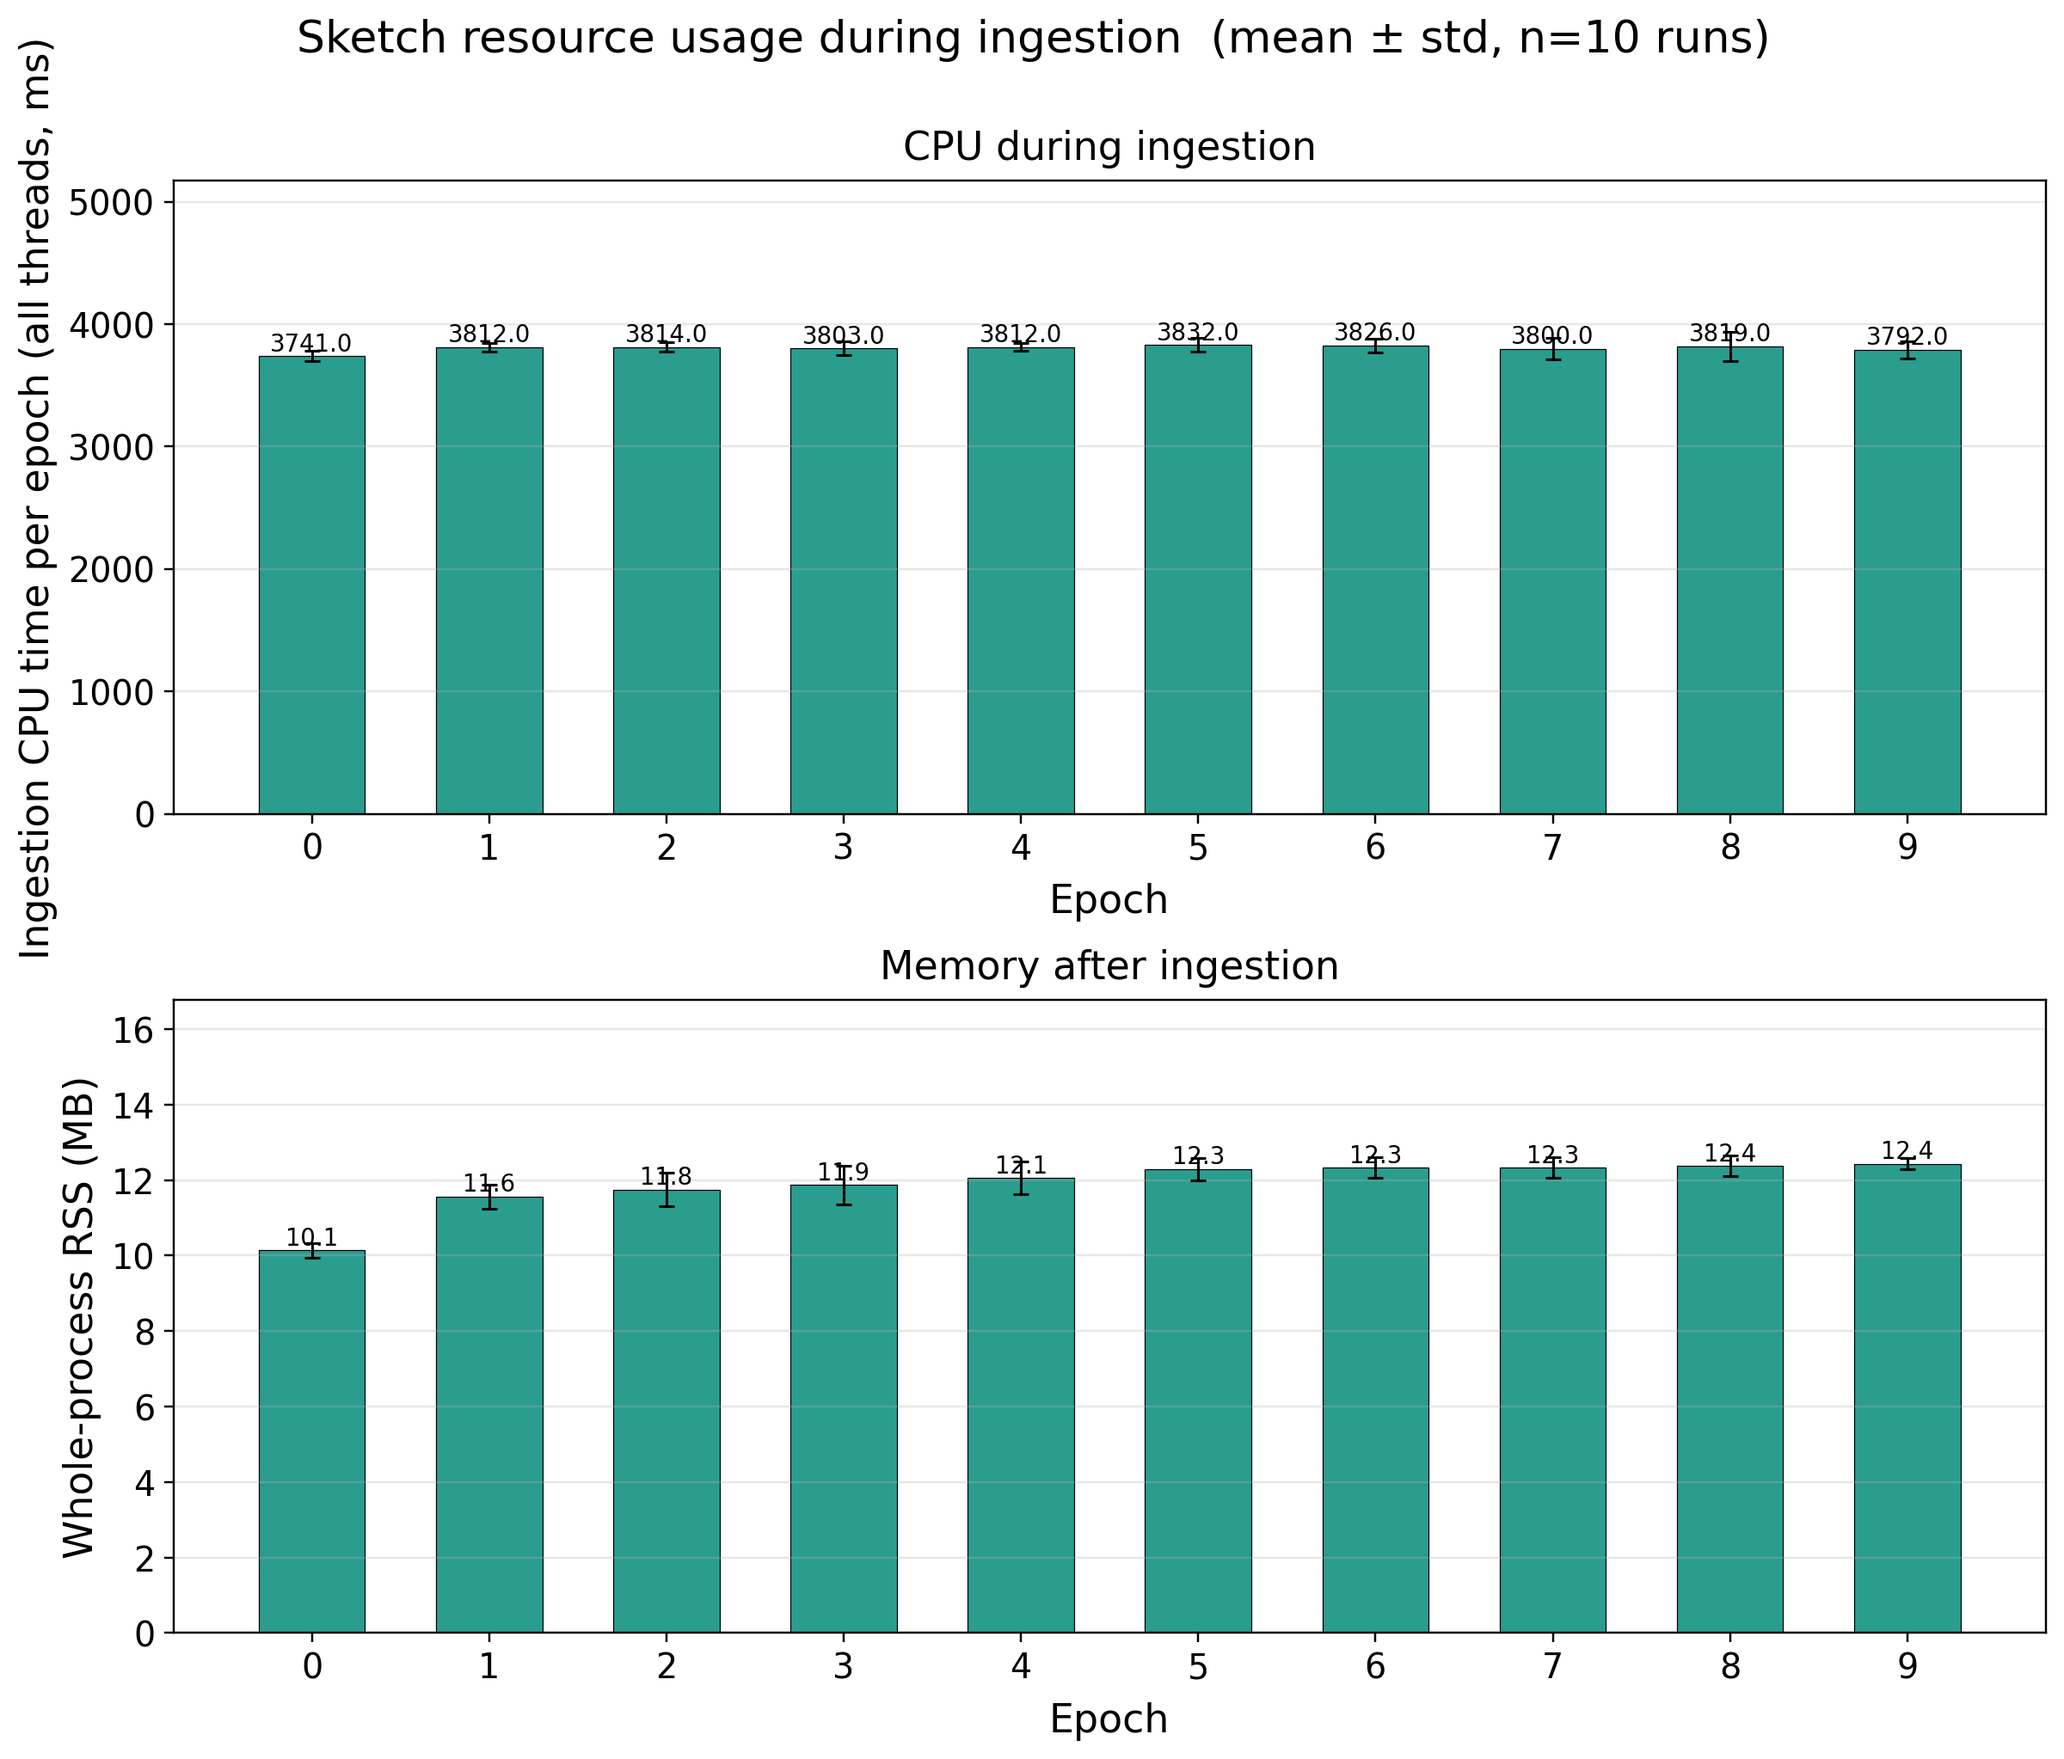
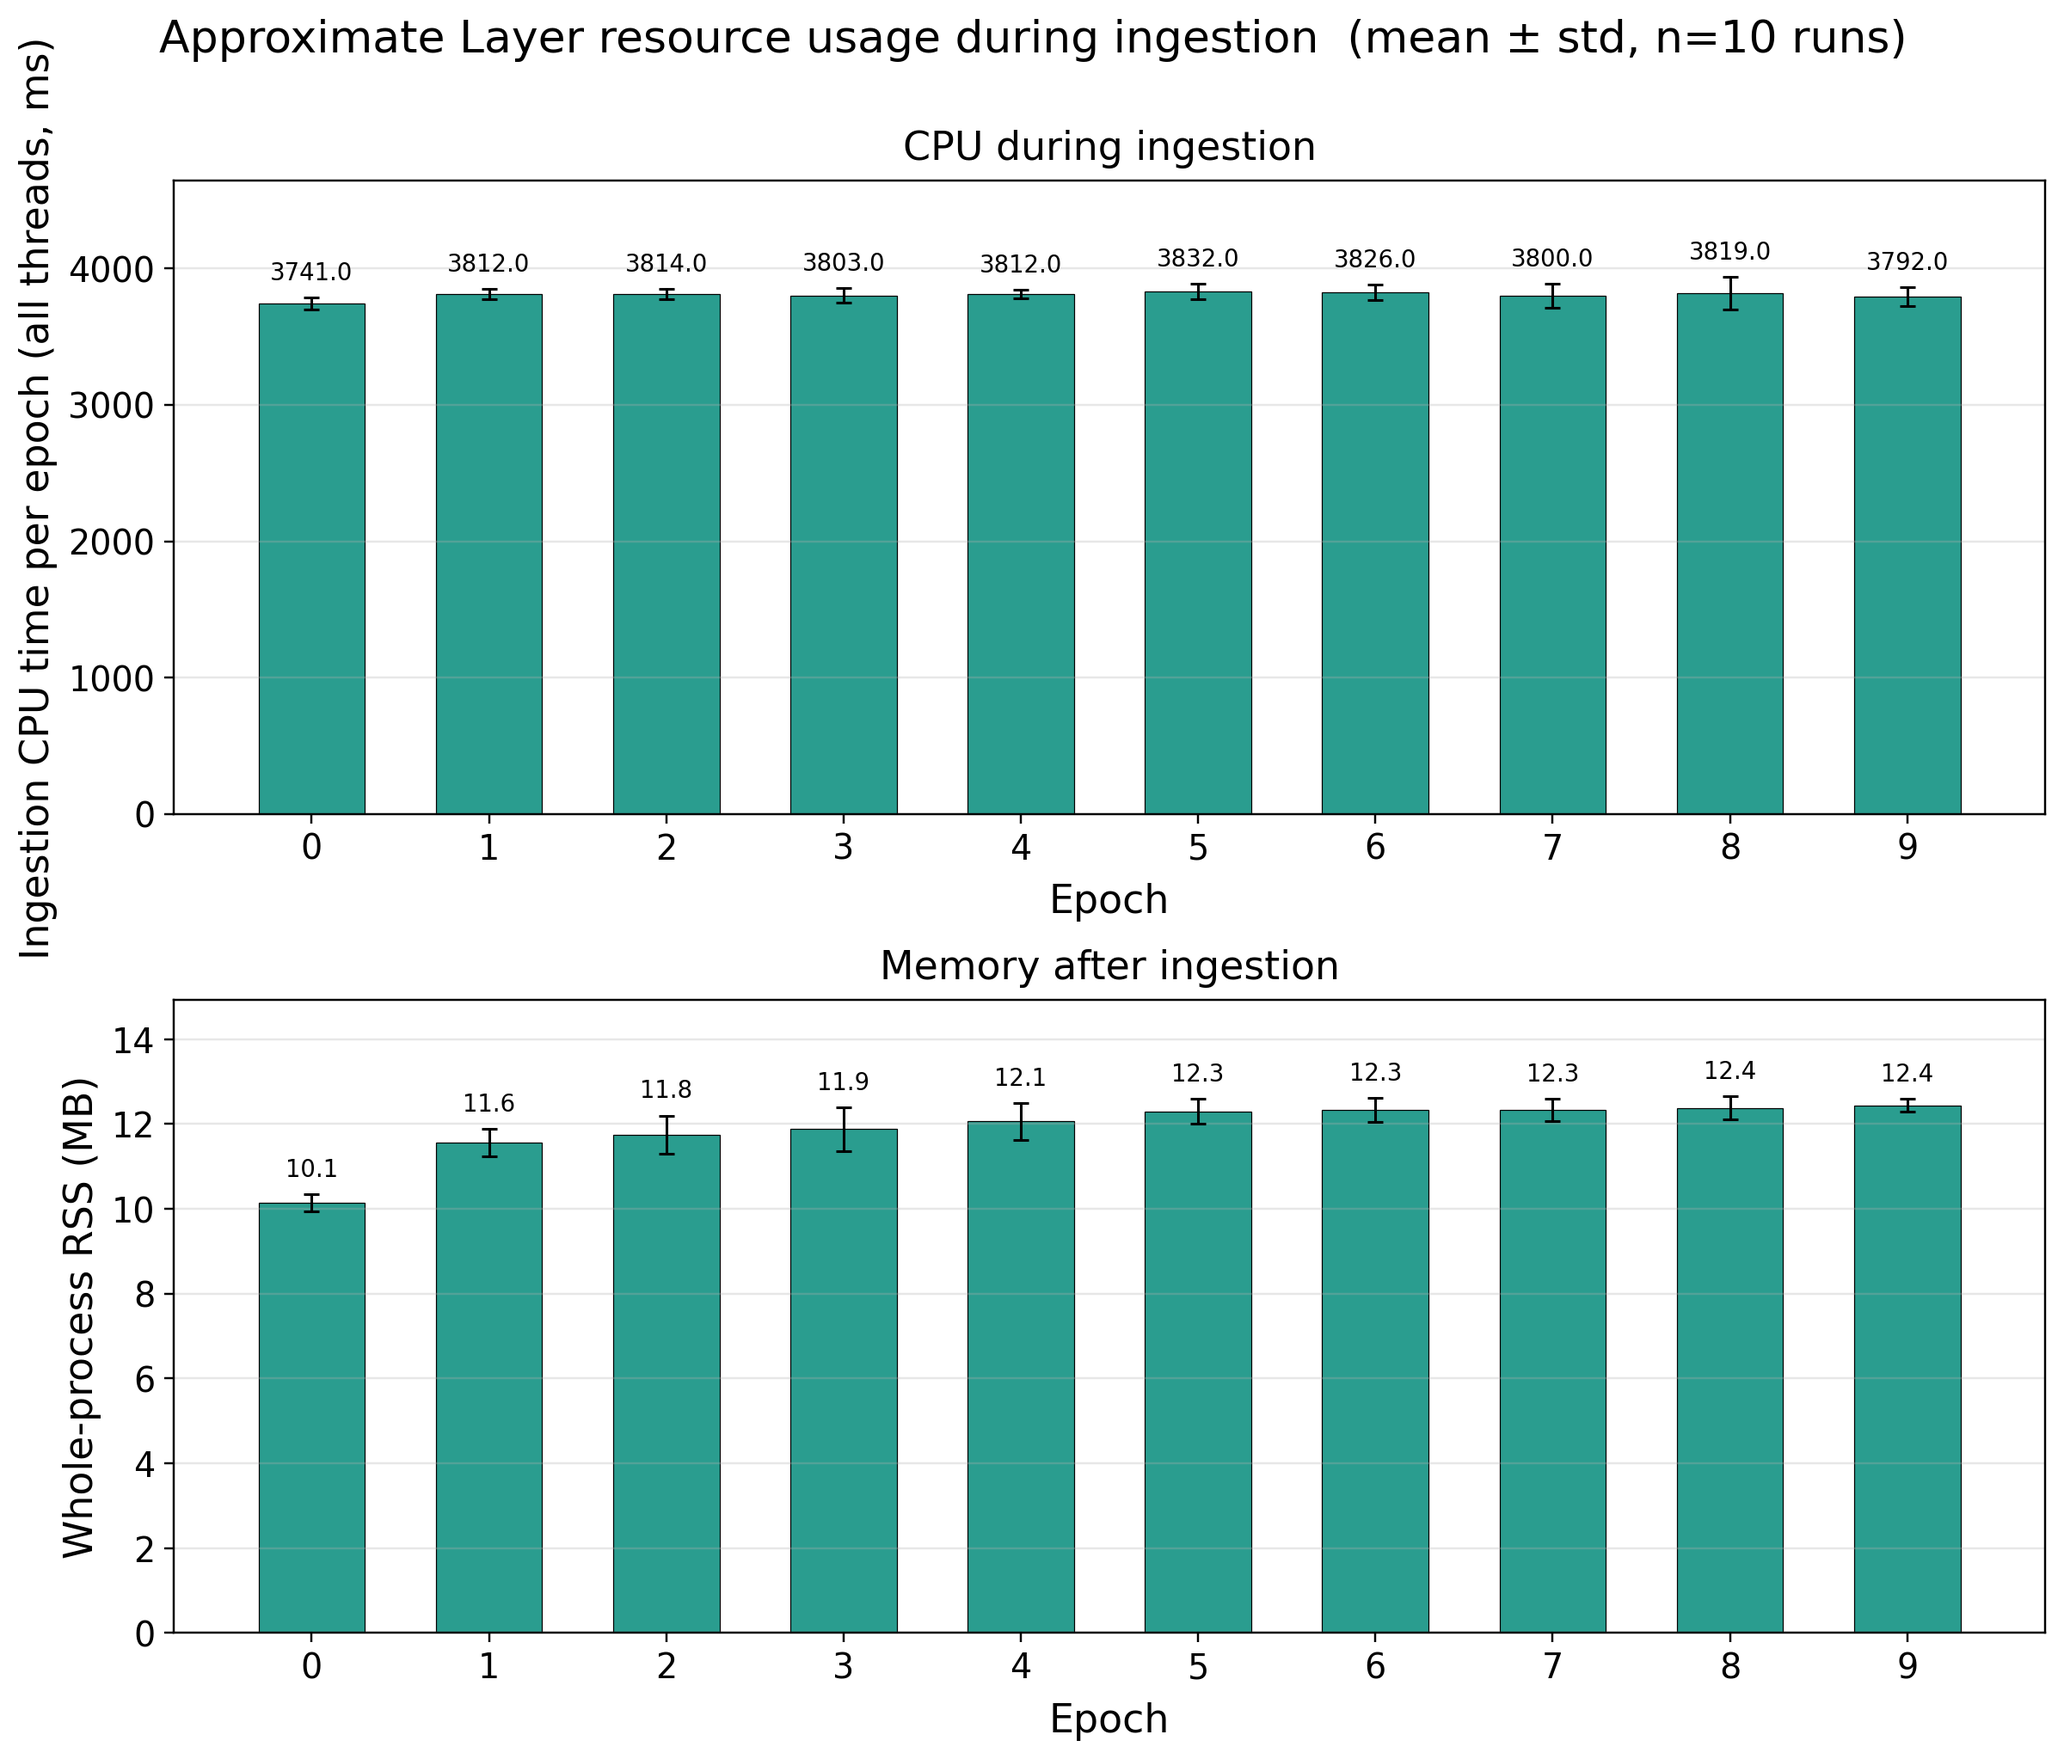
Sketch to Approximate Layer

diff --git a/scripts/plot_resource_benchmark.py b/scripts/plot_resource_benchmark.py
@@ -192,9 +192,9 @@ def plot_headline(rows: List[dict], col: str, series: List[Tuple[str, str, str]]
     ax.bar(xs, means, 0.6, yerr=stds, color=[c for _, _, c in present], capsize=4,
            edgecolor="black", linewidth=0.5, error_kw={"linewidth": 1, "ecolor": "black"})
     ax.set_yscale("log")
-    ax.set_ylim(top=max(means) * 2.2)
-    for x, m in zip(xs, means):
-        ax.text(x, m * 1.05, _label_ms(m), ha="center", va="bottom", fontsize=11)
+    ax.set_ylim(top=max(m + s for m, s in zip(means, stds)) * 2.4)
+    for x, m, s in zip(xs, means, stds):
+        ax.text(x, (m + s) * 1.08, _label_ms(m), ha="center", va="bottom", fontsize=11)
     ax.set_xticks(xs)
     ax.set_xticklabels([lbl for _, lbl, _ in present], fontsize=BAR_TICK_FS, rotation=10, ha="right")
     ax.set_ylabel(ylabel, fontsize=BAR_LABEL_FS)
@@ -232,9 +232,11 @@ def _draw_sketch_metric(ax, rows: List[dict], col: str, ylabel: str, title: str)
 
     ax.bar(epochs, means, 0.6, yerr=stds, color=SERVER_COLOR, capsize=3,
            edgecolor="black", linewidth=0.4, error_kw={"linewidth": 1, "ecolor": "black"})
-    for e, m in zip(epochs, means):
-        ax.text(e, m, f"{m:.1f}", ha="center", va="bottom", fontsize=9)
-    ax.set_ylim(0, max(means) * 1.35)
+    ymax = max(m + s for m, s in zip(means, stds)) * 1.18
+    pad = ymax * 0.02
+    for e, m, s in zip(epochs, means, stds):
+        ax.text(e, m + s + pad, f"{m:.1f}", ha="center", va="bottom", fontsize=9)
+    ax.set_ylim(0, ymax)
     ax.set_ylabel(ylabel, fontsize=BAR_LABEL_FS)
     ax.set_xlabel("Epoch", fontsize=BAR_LABEL_FS, labelpad=6)
     ax.set_xticks(epochs)
@@ -337,14 +339,14 @@ def main() -> None:
              "ylabel": "CPU time per query (all threads, ms)", "title": "CPU during query"},
         bottom={"rows": rows, "col": "rss_mean_mb",
                 "ylabel": "Whole-process RSS (MB)", "title": "Memory during query"},
-        suptitle="Sketch resource usage during query", out_path=out_dir / "sketch_query.png")
+        suptitle="Approximate Layer resource usage during query", out_path=out_dir / "sketch_query.png")
     if ing_rows:
         plot_sketch_pair(
             top={"rows": ing_rows, "col": "ingest_cpu_ms",
                  "ylabel": "Ingestion CPU time per epoch (all threads, ms)", "title": "CPU during ingestion"},
             bottom={"rows": rows, "col": "rss_idle_mb",
                     "ylabel": "Whole-process RSS (MB)", "title": "Memory after ingestion"},
-            suptitle="Sketch resource usage during ingestion", out_path=out_dir / "sketch_ingestion.png")
+            suptitle="Approximate Layer resource usage during ingestion", out_path=out_dir / "sketch_ingestion.png")
 
     if not args.no_prune:
         prune_stale(out_dir)
